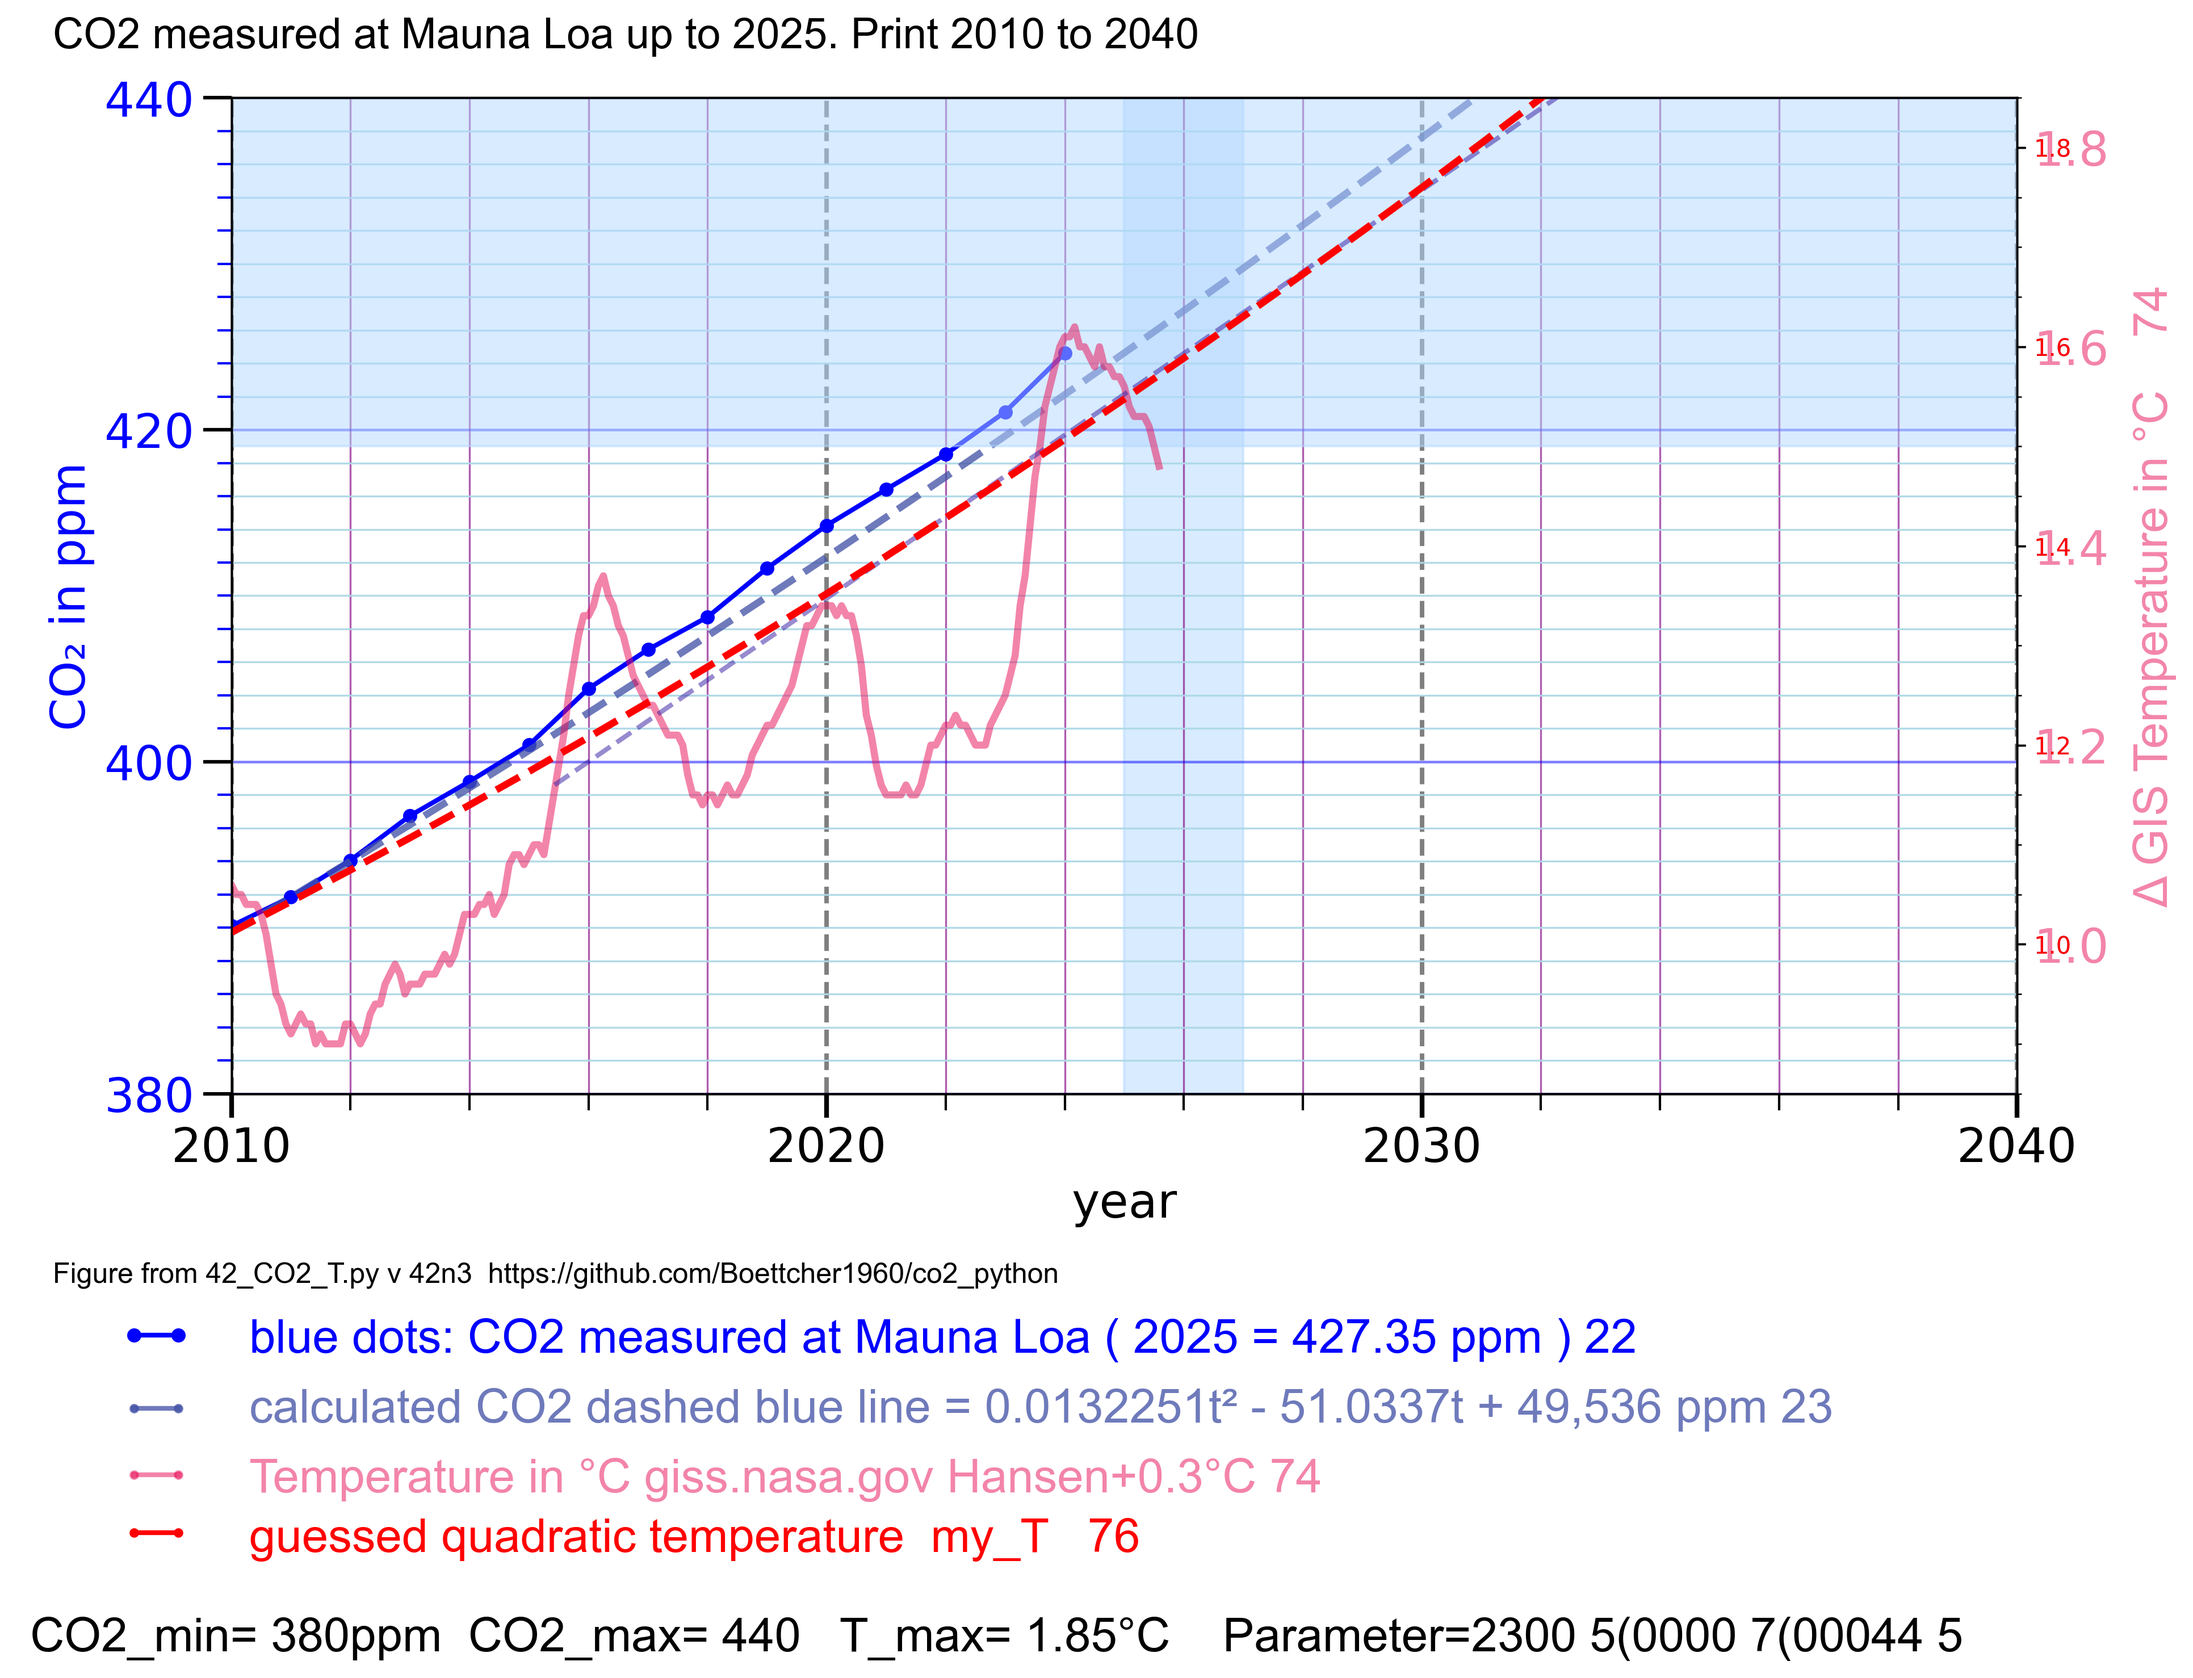
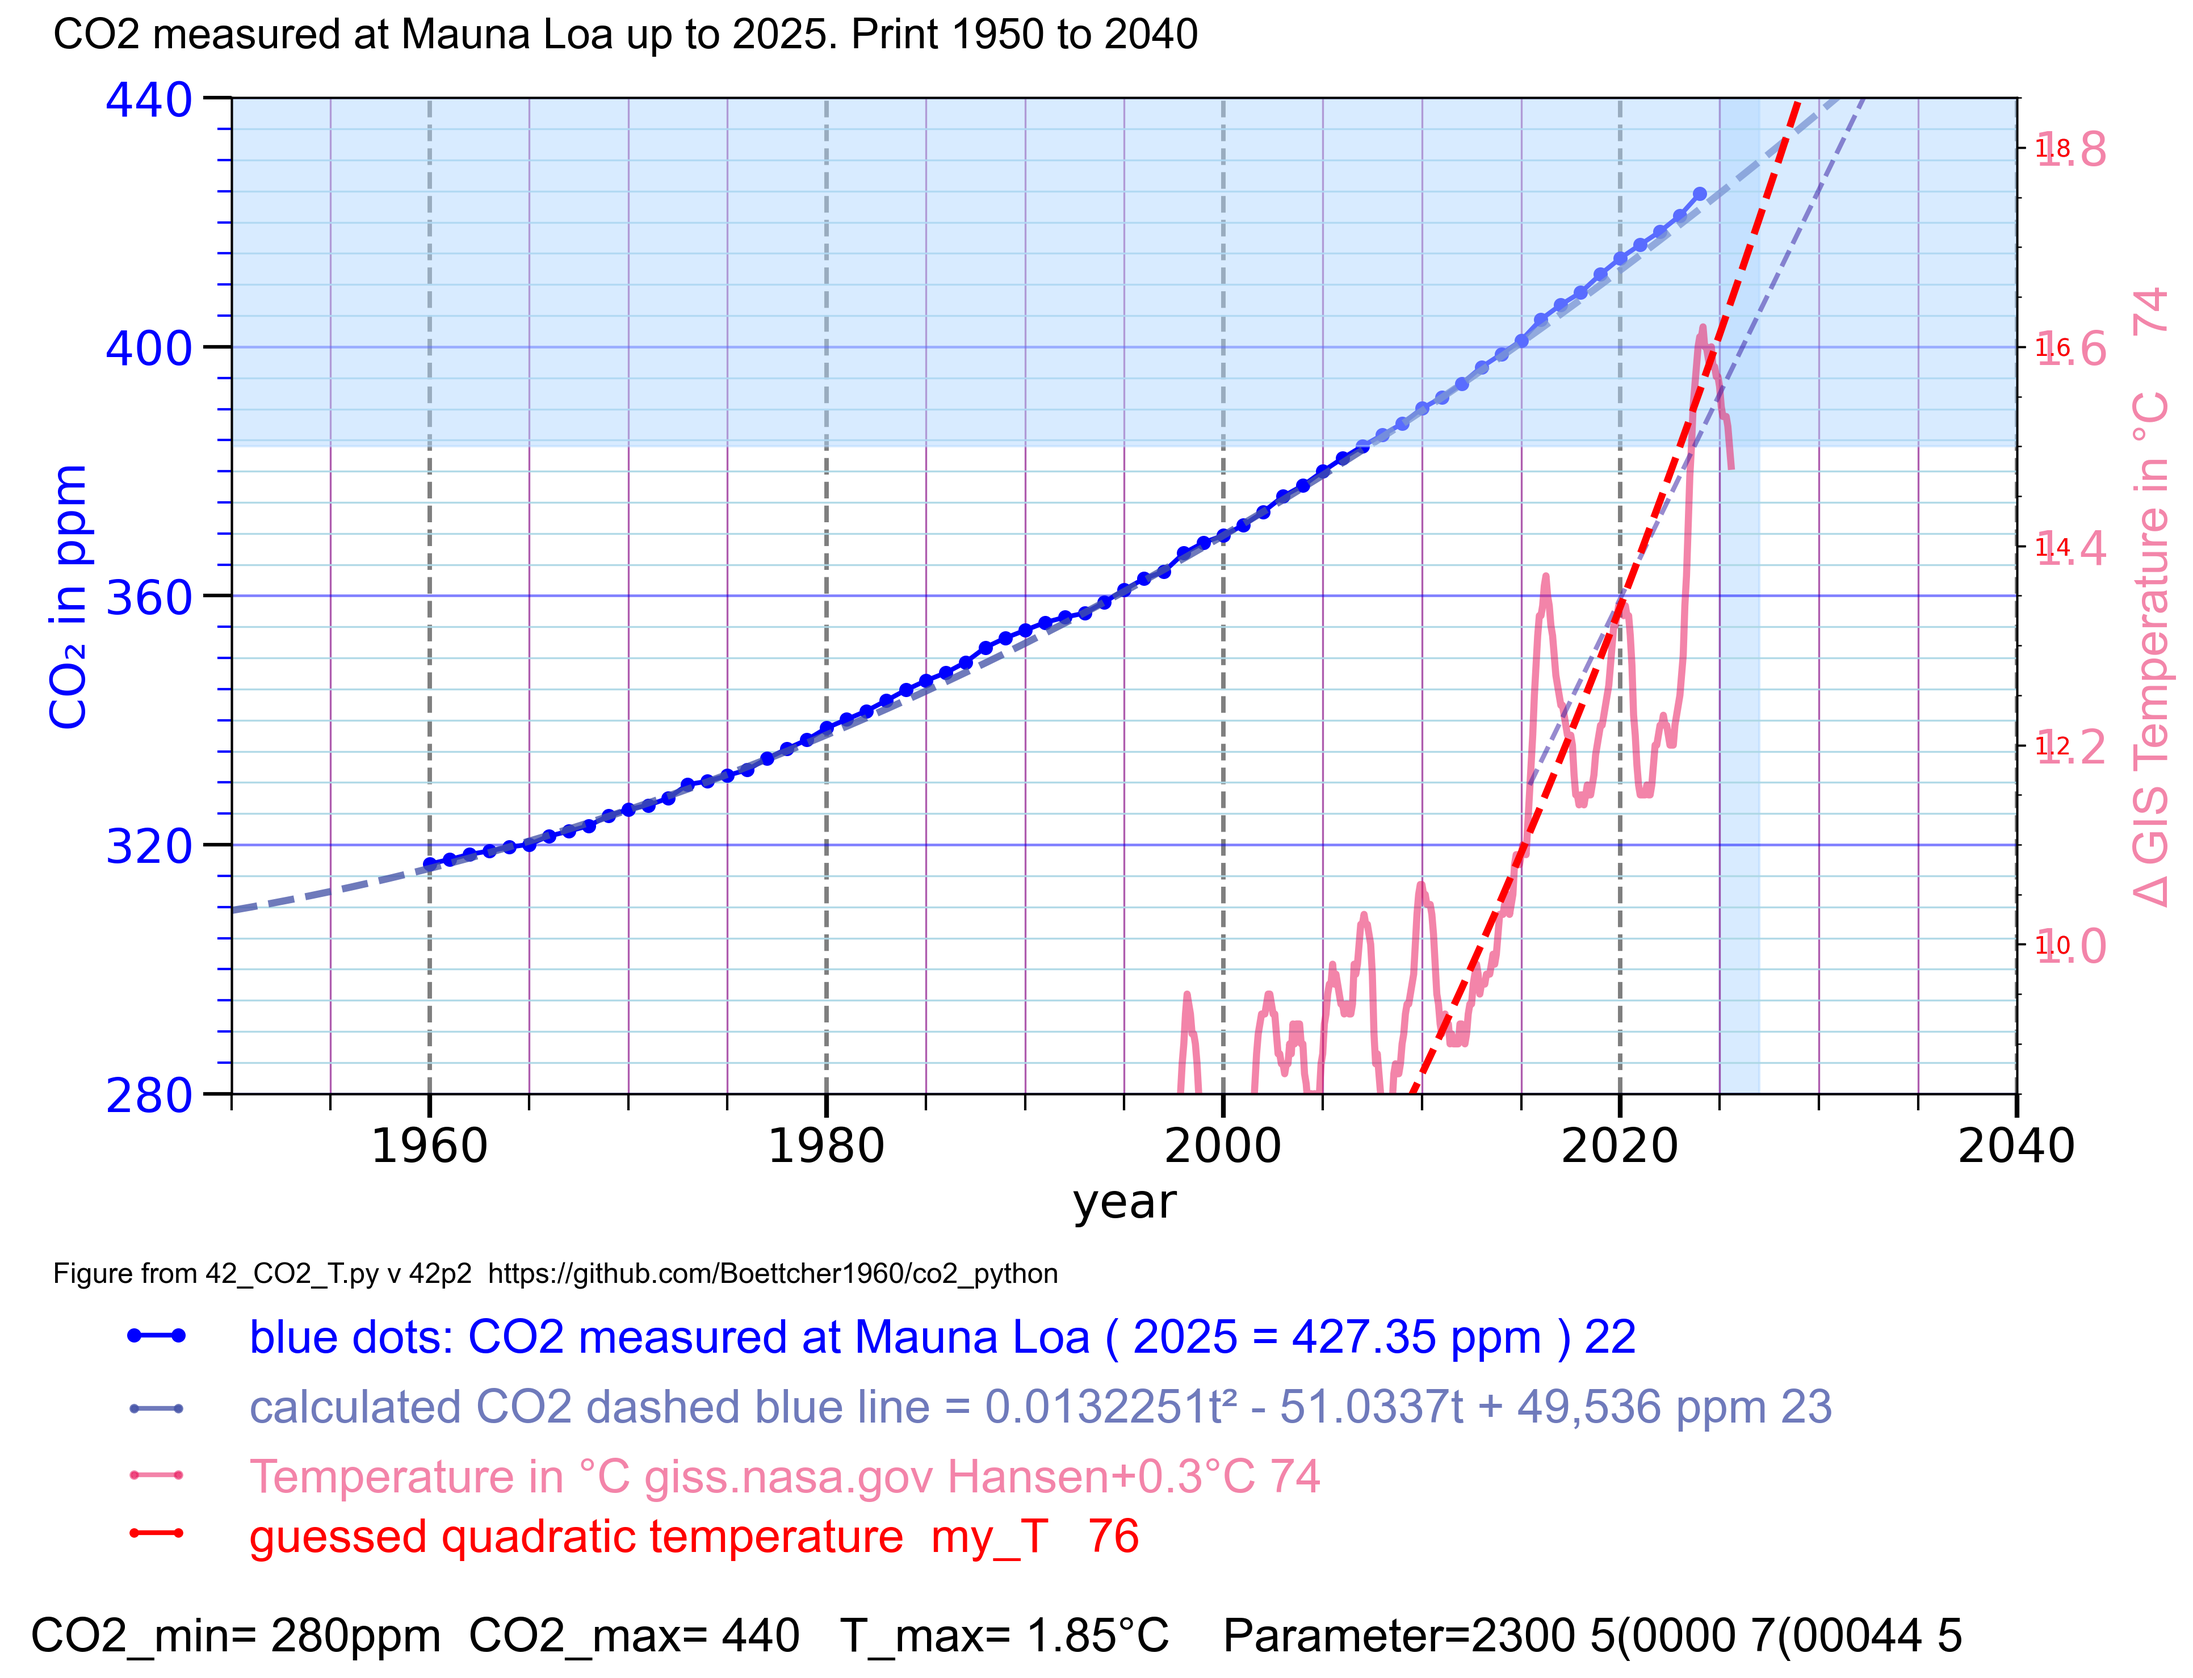
v = "42p2" #  plot76_my_T

diff --git a/42_CO2_T.py b/42_CO2_T.py
@@ -1,5 +1,5 @@
 # 42_CO2_T.py 
-v = "42p1" #  plot76_my_T
+v = "42p2" #  plot76_my_T
 # Thomas Boettcher
 # part 1 configure 
 # part 2.2 plot CO2 Mauna Loa
@@ -19,6 +19,7 @@ v = "42p1" #  plot76_my_T
 # part 74 plot Hansen GIS temperature 1880 2027
 # part 75      Hansen 2015 .41°C linear fit
 # part 76  my  T 
+# part 77 deepseek.com 
 #
 # part 8 print headline, axis numbers. around figue
 # 8.2 print the headline above the plot
@@ -27,6 +28,12 @@ v = "42p1" #  plot76_my_T
 # 8.7 print the right y axis
 # 8.8 print the x axis 
 # 8.9 print the horizontal lines year 2026
+
+# yl_mode = 2 ppm CO2 y axis left mode
+# yl_mode = 3 Gt CO2 y axis left mode
+# yl_mode = 4 EEI in W/m2 y axis left mode
+# yl_mode = 5 delta ppm CO2 y axis left mode
+# yl_mode = 7 Temperature in °C y axis left mode
 
 # part 9 print line 1 to 5 below the figure 
 
@@ -86,14 +93,14 @@ else:
 C280=280 # CO2 concentration 1750 275 ppm
 
 # 1.3.1 scale the left Y axis
-y_min = 380 # 300 # min value 280
+y_min = 280 # 300 # min value 280
 y_max = 440 # 1300 # min value 440 70
 
 # 1.3.2 scale the right Y axis
 y_Tmin = 0.85 # min value °C
 y_Tmax = 1.85 # 1.6 4 # max value C
 
-x_anf = 2010 # 1960 2000 -33000
+x_anf = 1950 # 1960 2000 -33000
 x_end = 2040 # 2200 2026 
 
 # 1.4.5 scale the text rows below the plot field
